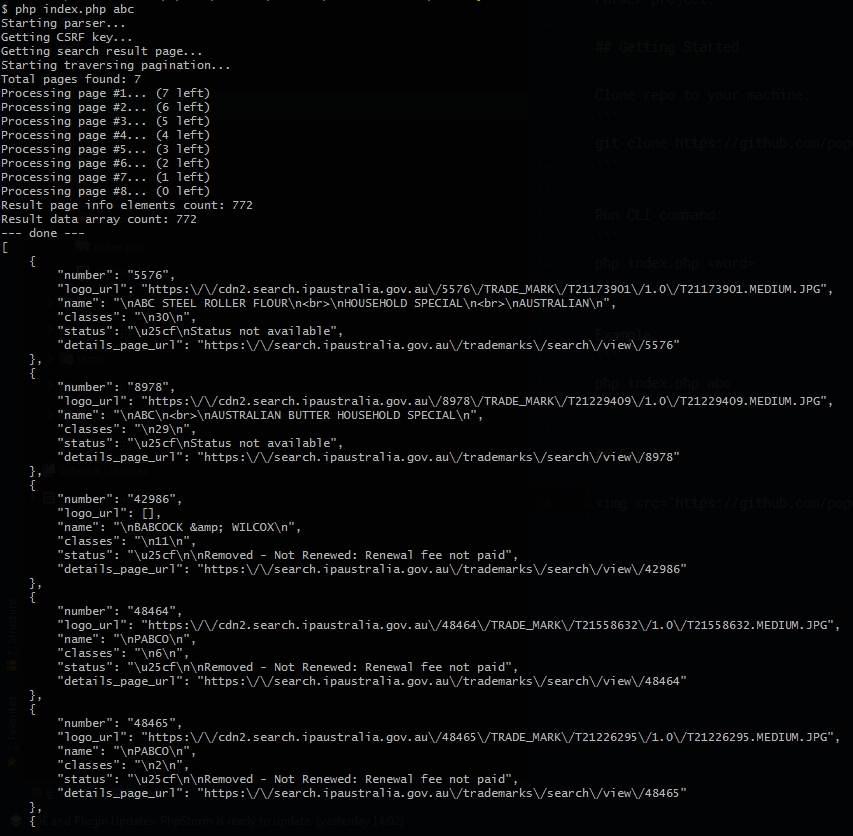
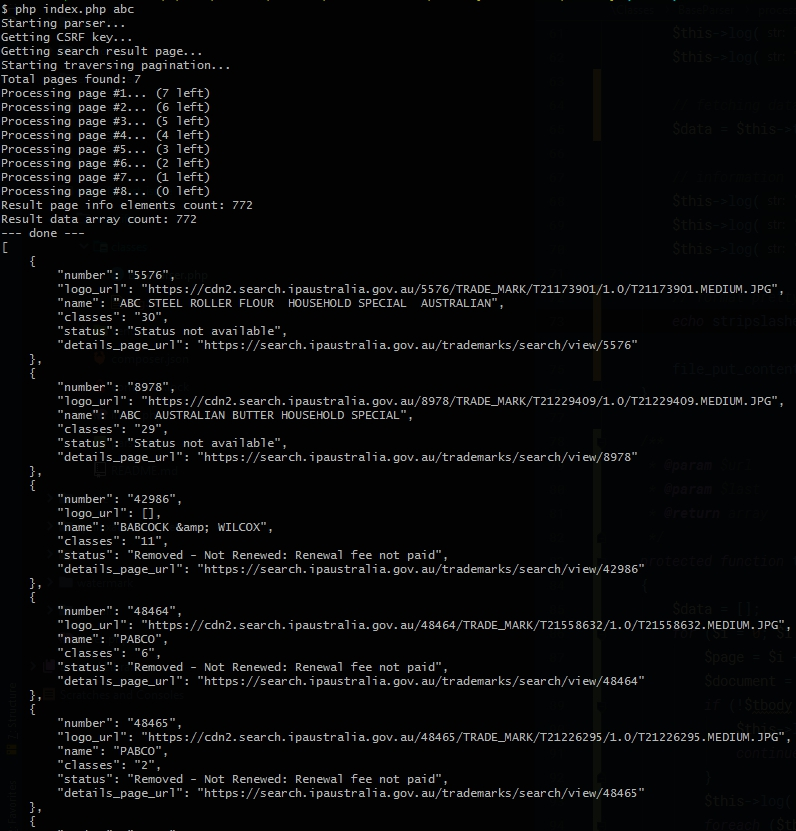
Code refactoring

diff --git a/classes/BaseParser.php b/classes/BaseParser.php
@@ -52,10 +52,7 @@ class BaseParser
         }
 
         // getting redirect to results page
-        preg_match('/^Location:\s*(.+)/mi', $result['content'], $matches);
-        if (!$url = trim($matches[1])) {
-            $this->error('Result redirect location not found');
-        }
+        $url = $this->getRedirectLocation($result['content']);
 
         // getting result page information
         list($total, $last) = $this->getResultPageInfo($url);
@@ -63,6 +60,26 @@ class BaseParser
         // starting processing data
         $this->log("Starting traversing pagination...");
         $this->log("Total pages found: " . (!$last ? 1 : $last));
+
+        // fetching data
+        $data = $this->traverseResult($url, $last);
+
+        // information
+        $this->log('Result page info elements count: ' . $total);
+        $this->log('Result data array count: ' . count($data));
+        $this->log('--- done ---');
+
+        // format pretty output
+        echo stripslashes(json_encode($data, JSON_PRETTY_PRINT));
+    }
+
+    /**
+     * @param $url
+     * @param $last
+     * @return array
+     */
+    protected function traverseResult($url, $last)
+    {
         $data = [];
         for ($i = 0; $i <= $last; $i++) {
             $page = $i + 1;
@@ -80,13 +97,13 @@ class BaseParser
                     $logo = (string)$logo[0]->attr('src');
                 }
                 if ($name = $tb->find('td.words')) {
-                    $name = (string)$name[0]->innerHtml();
+                    $name = $this->f((string)$name[0]->innerHtml());
                 }
                 if ($classes = $tb->find('td.classes')) {
-                    $classes = (string)$classes[0]->innerHtml();
+                    $classes = $this->f((string)$classes[0]->innerHtml());
                 }
                 if ($status = $tb->find('td.status')) {
-                    $status = trim(strip_tags((string)$status[0]->innerHtml()));
+                    $status = $this->f((string)$status[0]->innerHtml());
                 }
                 if ($link = $tb->find('td.number a')) {
                     $link = 'https://search.ipaustralia.gov.au' . explode('?', (string)$link[0]->attr('href'))[0];
@@ -103,13 +120,35 @@ class BaseParser
             // sleeping to prevent ban
             usleep(1000);
         }
+        return $data;
+    }
 
-        // information
-        $this->log('Result page info elements count: ' . $total);
-        $this->log('Result data array count: ' . count($data));
-        $this->log('--- done ---');
+    /**
+     * Format data output
+     * 
+     * @param $str
+     * @return mixed|string
+     */
+    private function f($str)
+    {
+        $str = strip_tags($str);
+        $str = str_replace(["\n", "●"], [" ", ""], $str);
+        $str = trim($str);
+        
+        return $str;
+    }
 
-        echo json_encode($data, JSON_PRETTY_PRINT);
+    /**
+     * @param $content
+     * @return string
+     */
+    protected function getRedirectLocation($content)
+    {
+        preg_match('/^Location:\s*(.+)/mi', $content, $matches);
+        if (!$url = trim($matches[1])) {
+            $this->error('Result redirect location not found');
+        }
+        return $url;
     }
 
     /**
@@ -216,5 +255,5 @@ class BaseParser
         echo $error . "\n";
         exit();
     }
-    
+
 }
